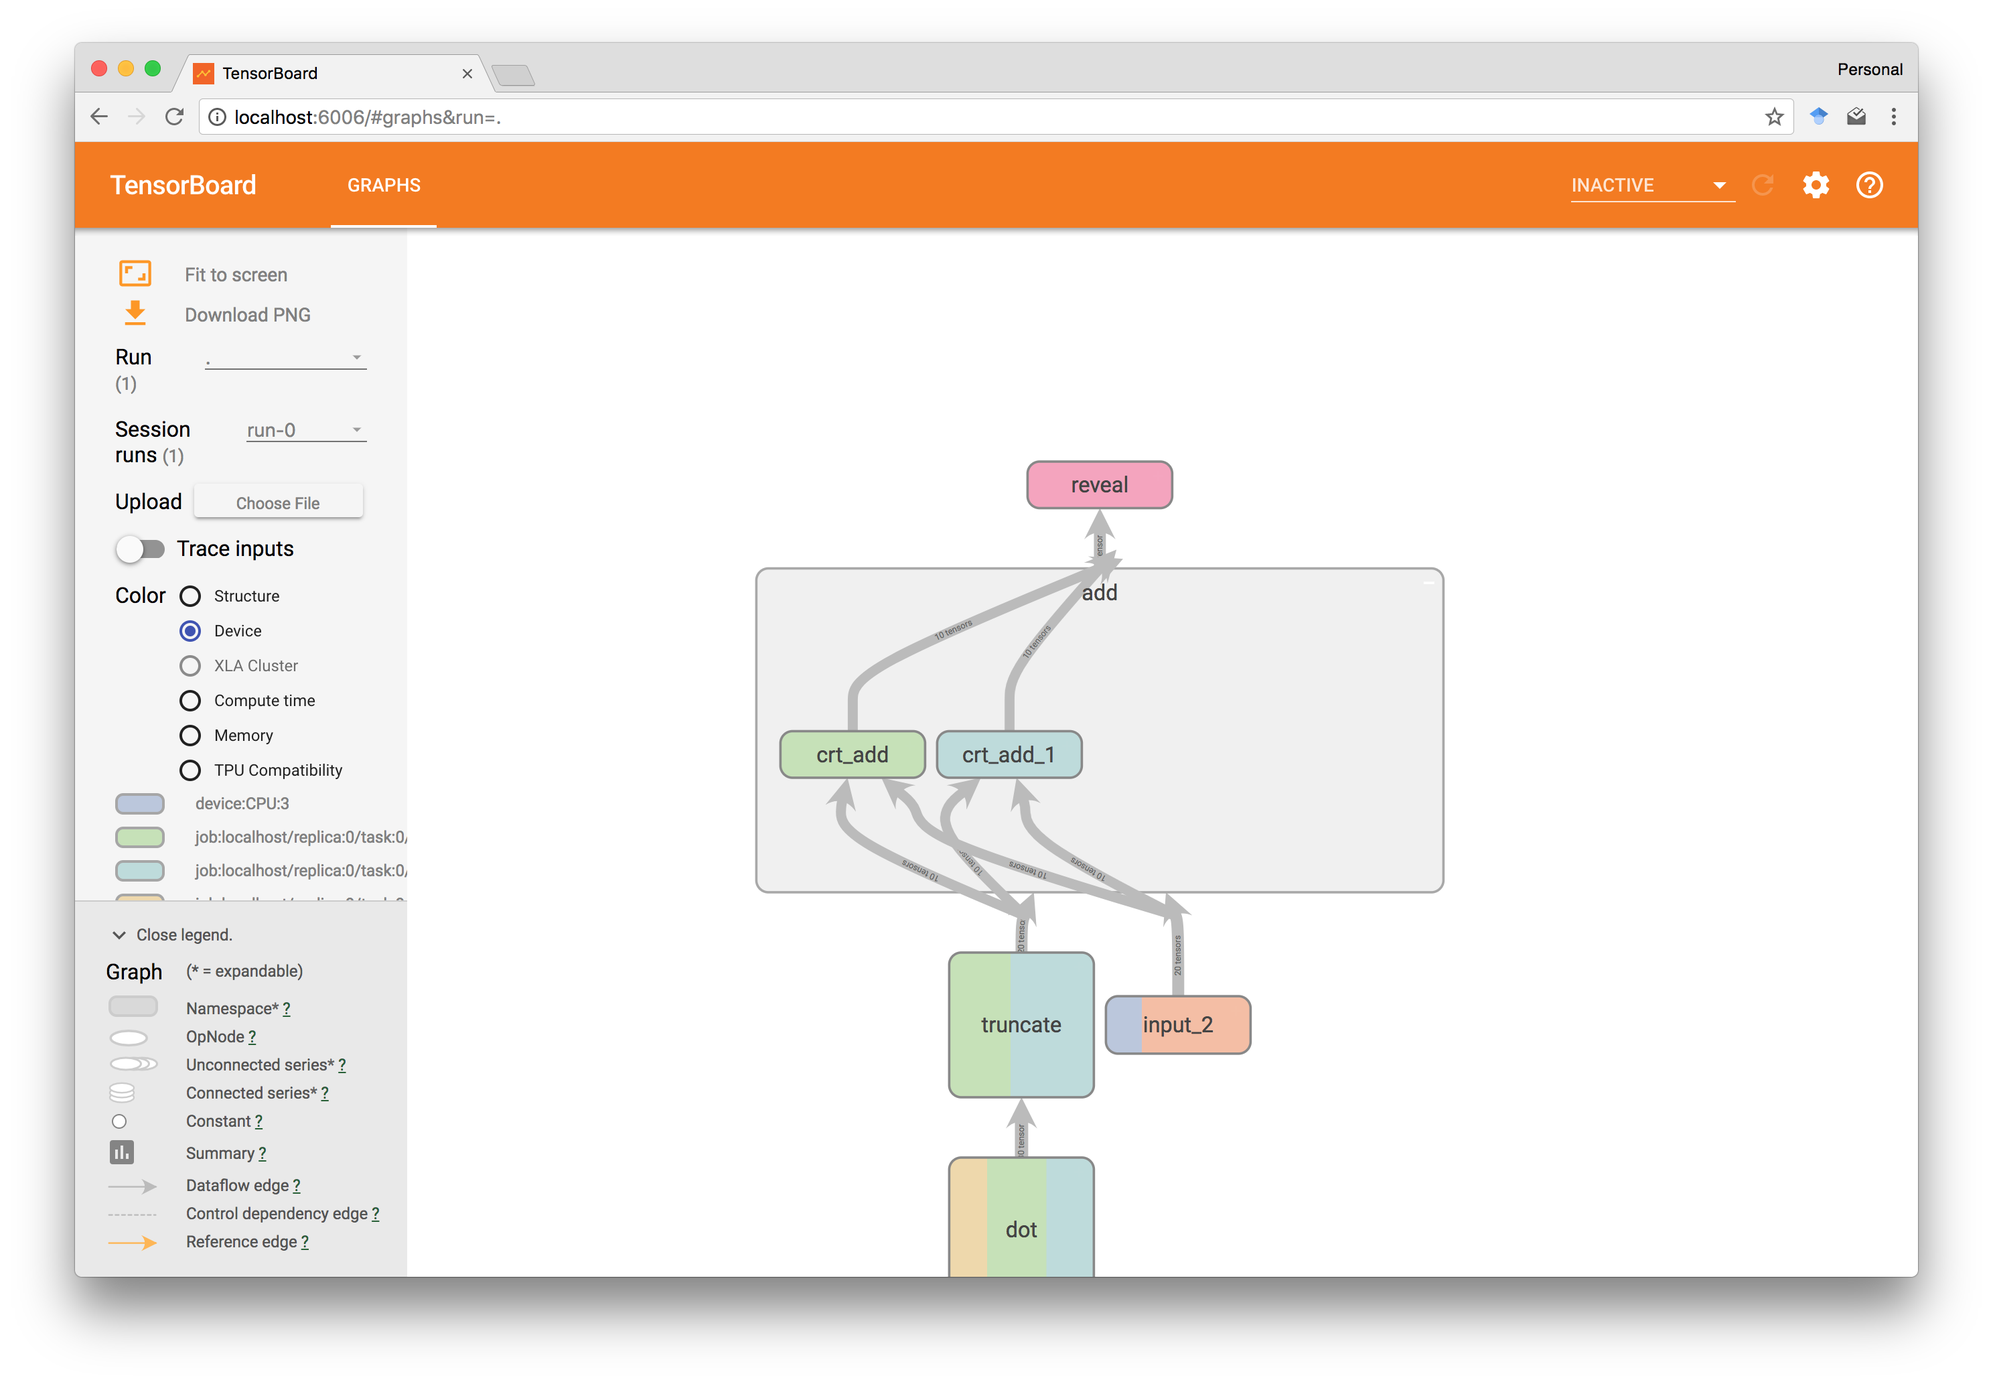
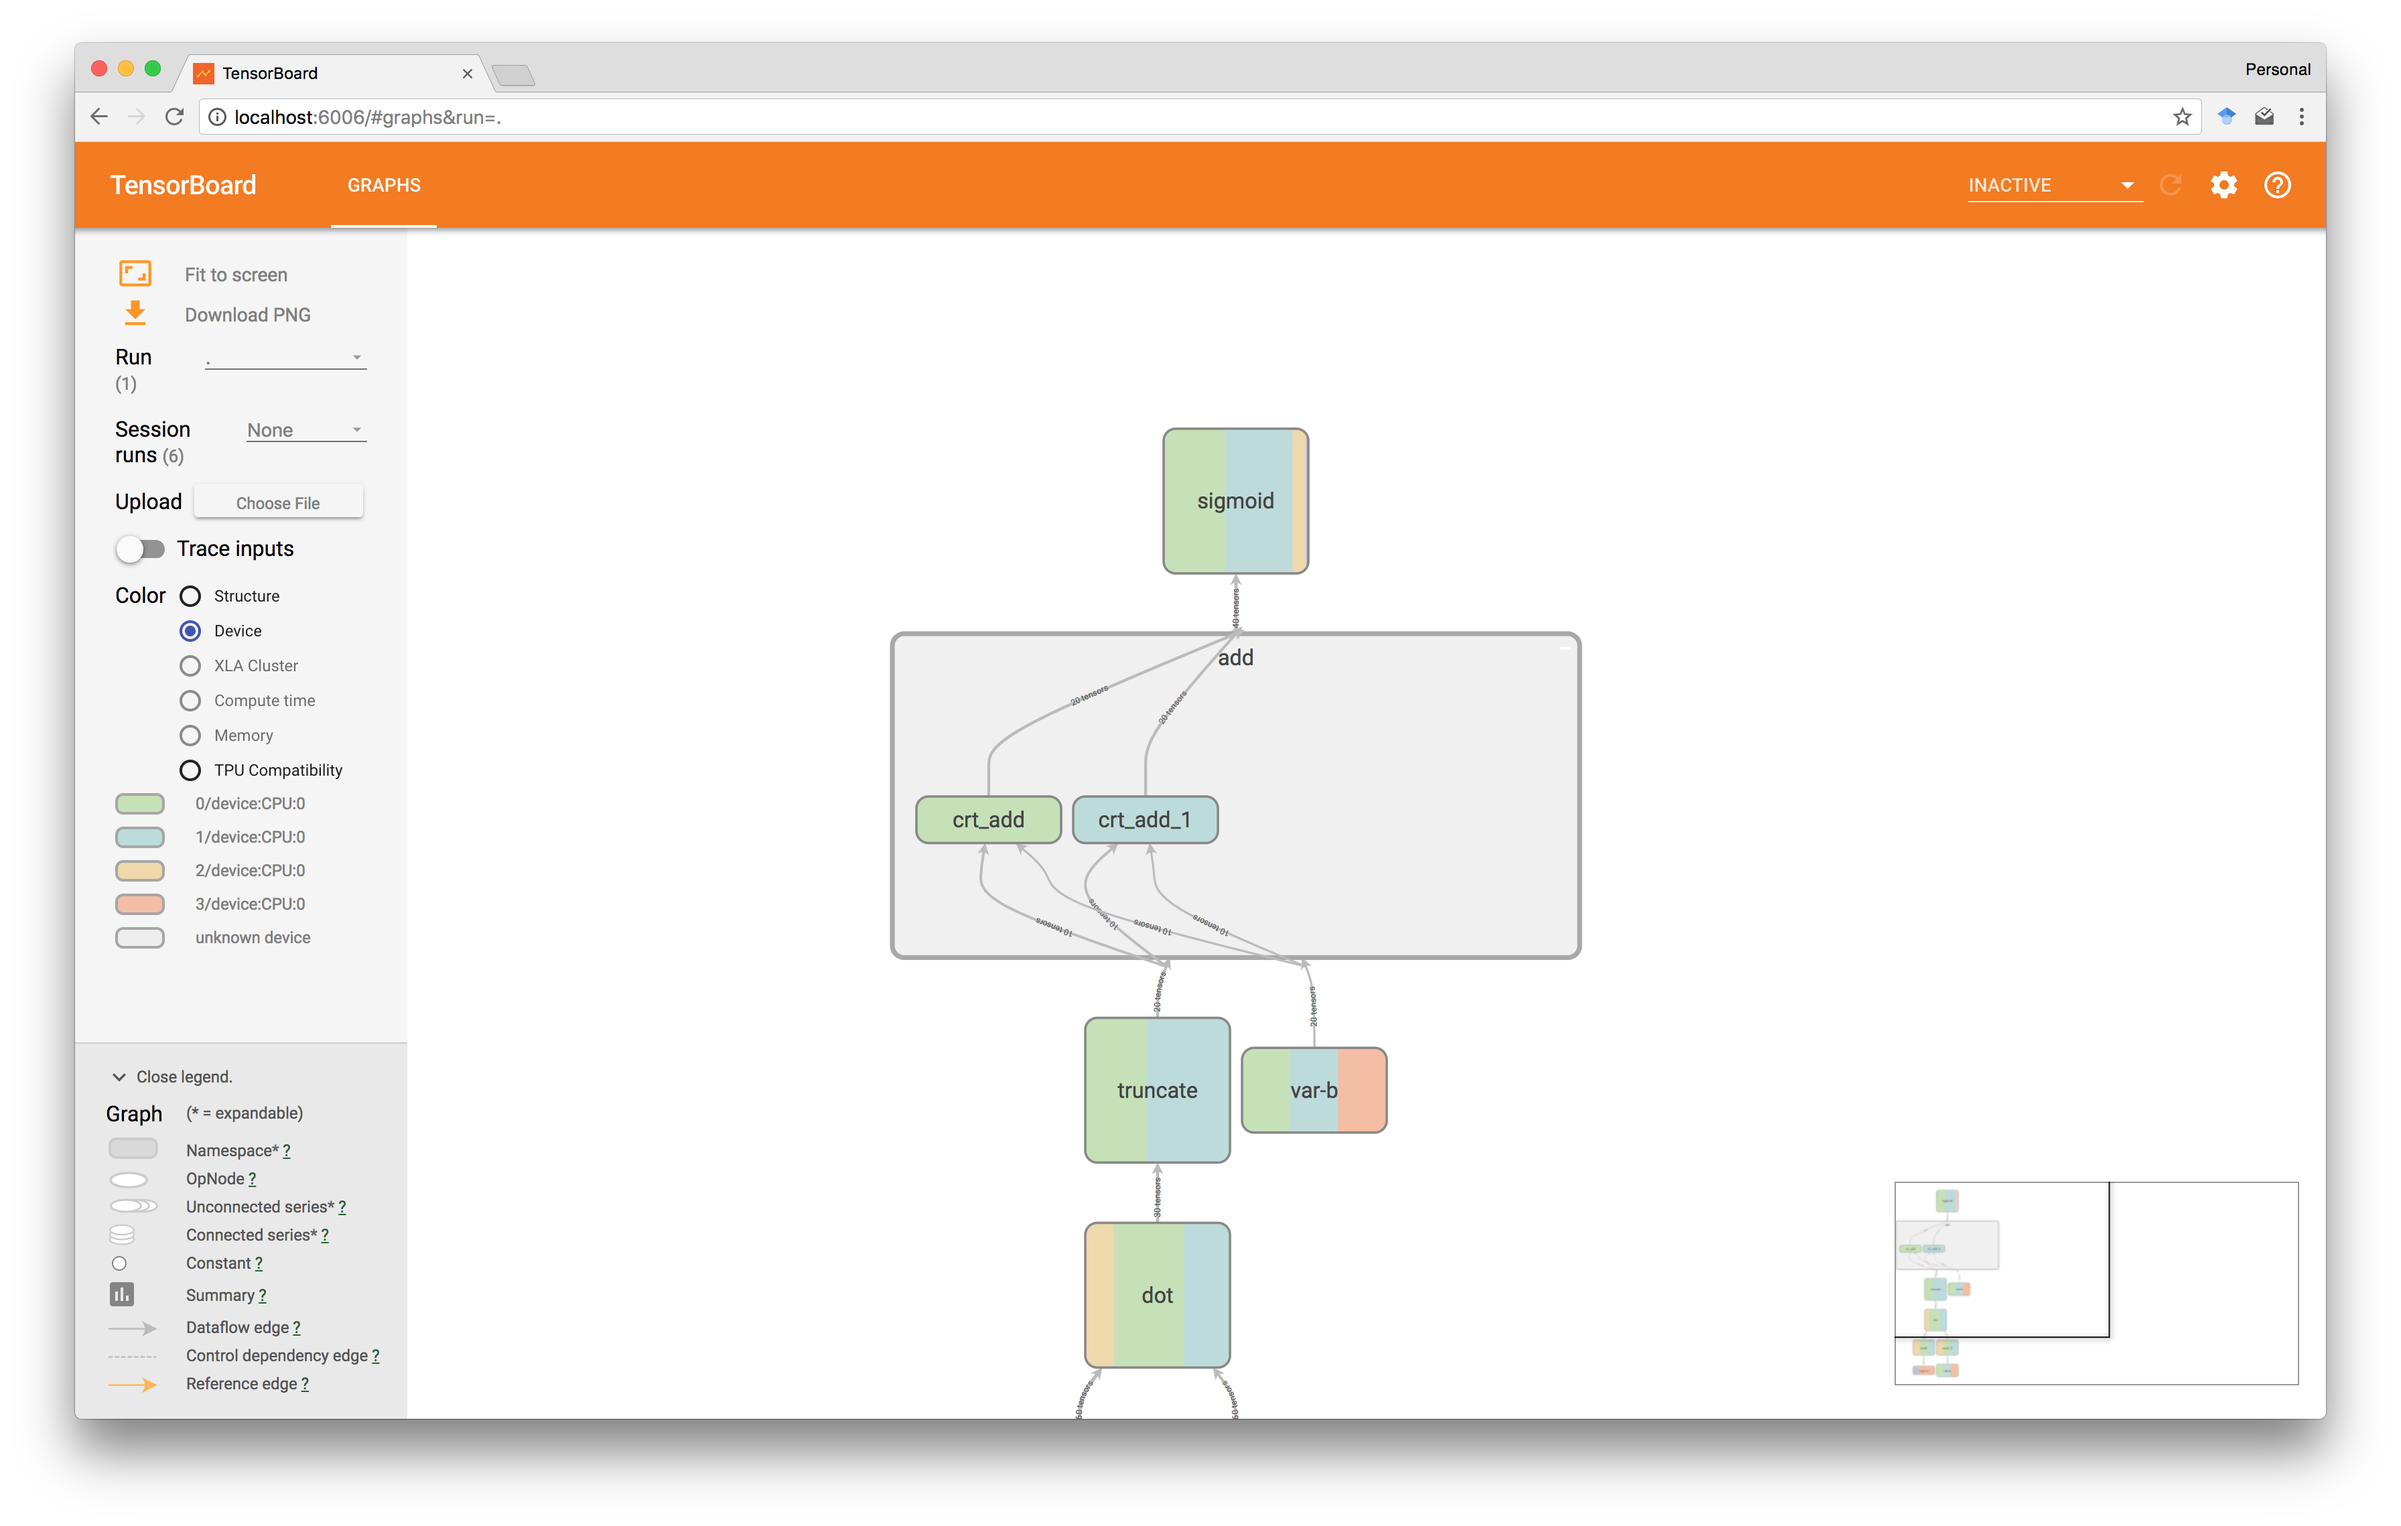
..

Changed region(s): [[0.0312, 0.031, 0.9688, 0.9603]]

diff --git a/_posts/2018-03-01-secure-computation-as-dataflow-programs.md b/_posts/2018-03-01-secure-computation-as-dataflow-programs.md
@@ -33,18 +33,18 @@ Luckily though, modern distributed computation frameworks such as [TensorFlow](h
 
 ## Prerequisites
 
-In this post we are going to assume that the main principles behind both TensorFlow and the SPDZ protocol are already understood -- if not then there are [plenty](https://www.tensorflow.org/tutorials/) [of](https://learningtensorflow.com/) [good](https://github.com/ageron/handson-ml) [resources](https://developers.google.com/machine-learning/crash-course/) for the former (including [whitepapers](https://www.tensorflow.org/about/bib)) and e.g. [previous](/2017/09/03/the-spdz-protocol-part1/) [posts](/2017/09/10/the-spdz-protocol-part2/) for the latter. One important note though is that TensorFlow works by first constructing a static [computation graph](https://www.tensorflow.org/programmers_guide/graphs) then is then later executed in a session. This means that all our secure operations below are concerned with building such a graph, as opposed to doing any actual execution as in earlier posts.
+In this post we are going to assume that the main principles behind both TensorFlow and the SPDZ protocol are already understood -- if not then there are [plenty](https://www.tensorflow.org/tutorials/) [of](https://learningtensorflow.com/) [good](https://github.com/ageron/handson-ml) [resources](https://developers.google.com/machine-learning/crash-course/) for the former (including [whitepapers](https://www.tensorflow.org/about/bib)) and e.g. [previous](/2017/09/03/the-spdz-protocol-part1/) [posts](/2017/09/10/the-spdz-protocol-part2/) for the latter. One important note though is that TensorFlow works by first constructing a static [computation graph](https://www.tensorflow.org/programmers_guide/graphs) that is subsequently executed in a session. This means that all our secure operations below are concerned with building such a graph, as opposed to actual execution as in earlier posts: we are in some sense making a small compiler that translates secure computations expressed in a simple language into TensorFlow programs.
 
 We are also going to focus on applications where tensors and linear algebra play integrate roles, as for instance in various [regression](/2018/03/12/private-logistic-regression/) tasks and [deep learning](/2017/09/19/private-image-analysis-with-mpc/). In particular, in these applications the secure operations needed were tensor addition, subtraction, multiplication, dot products, truncation, and sampling.
 
 As we shall see this fits very nicely with what's already provided by TensorFlow, with one main exception: to get high precision when working with [fixedpoint numbers](/2017/09/03/the-spdz-protocol-part1/#fixedpoint-numbers) in the secure setting we end up encoding into and operating on integers that are larger than what fits in a typically word size, while TensorFlow on the other hand today only supports operations on 32 and 64 bit integers (a constraint that may have something to do with current support on GPUs).
 
-Luckily, since we only need the operations mentioned above, there are efficient ways around this as discussed [elsewhere](/2018/01/29/the-chinese-remainder-theorem/) which allow us to simulate arithmetic on tensors of ~120 bit integers using (a list of) tensors of 32 bit integers. Here, we will simply assume such base operations `base_add`, `base_sub`, `base_mul`, `base_dot`, `base_mod`, and `sample`.
+Luckily though, since we only need the operations mentioned above, there are efficient ways around this as discussed [elsewhere](/2018/01/29/the-chinese-remainder-theorem/) which allow us to simulate arithmetic on tensors of ~120 bit integers using (a list of) tensors of 32 bit integers. Here, we will simply assume such base operations `base_add`, `base_sub`, `base_mul`, `base_dot`, `base_mod`, and `sample`.
 
 
 # Basics
 
-Since a secure operation is often expressed in terms of several TensorFlow operations, as a convinient way of defining the computation graph we will use a few abstract operations such as `add` and `dot` that allow us manage this complexity and focus on the secure computation at hand. Since each private tensor is represented by two shares, each input to these abstract operations are also represented by two (lists of) nodes in the graph. We call each such pair of nodes a private tensor, and introduce a simple class to contain this abstraction; this will also come in handy later when we look at a few optimisations.
+Since a secure operation is often expressed in terms of several TensorFlow operations, as a convinient way of defining the computation graph we will use a few abstract operations such as `add`, `mul`, and `dot` that allow us manage this complexity and focus on the secure computation at hand. Since each private tensor is represented by two shares, each input to these abstract operations are also represented by two (lists of) nodes in the graph. We call each such pair of nodes a private tensor, and introduce a simple class to contain this abstraction; this will also come in handy later when we look at a few optimisations.
 
 ```python
 class PrivateTensor:
@@ -86,7 +86,7 @@ Notice how easy it is to use [`tf.device()`](https://www.tensorflow.org/api_docs
 
 As an example, in the above, if `x0` was previous on, say, the input provider then TensorFlow will insert send and receive instructions that copies it to `SERVER_0` as part of computing `add`. All of this is abstracted away and the framework will attempt to [figure out](https://www.tensorflow.org/about/bib) the best strategy for optimising exactly when to perform sends and receives, including batching to better utilise the network and keeping the compute units busy.
 
-The [`tf.name_scope()`](https://www.tensorflow.org/api_docs/python/tf/name_scope) command on the other hand is simply a logical abstraction that doesn't influence computations but can be used to make the graphs much easier to visualise in [TensorBoard](https://www.tensorflow.org/programmers_guide/summaries_and_tensorboard) by grouping subgraphs as single components. For instance, inspecting the graph we get from `add(dot(x, w), b)` shows the following.
+The [`tf.name_scope()`](https://www.tensorflow.org/api_docs/python/tf/name_scope) command on the other hand is simply a logical abstraction that doesn't influence computations but can be used to make the graphs much easier to visualise in [TensorBoard](https://www.tensorflow.org/programmers_guide/summaries_and_tensorboard) by grouping subgraphs as single components. For instance, inspecting the graph we get from `sigmoid(add(dot(x, w), b))` shows the following.
 
 ![](/assets/tensorspdz/structure.png)
 

diff --git a/_drafts/the-spdz-protocol-part2.md b/_drafts/the-spdz-protocol-part2.md
@@ -4,18 +4,17 @@ title:      "The SPDZ Protocol, Part 2"
 subtitle:   "More Fun with Triples"
 date:       2017-09-10 12:00:00
 author:     "Morten Dahl"
-header-img: "img/post-bg-04.jpg"
+header-img: "assets/spdz/aarhus.jpg"
 ---
 
-<em><strong>TL;DR:</strong> we take a typical CNN deep learning model and go through a series of steps that enable both training and prediction to instead be done on encrypted data.</em> 
-
-https://www1.cs.fau.de/filepool/publications/octavian_securescm/smcint-scn10.pdf
-
-https://www.iacr.org/archive/pkc2007/44500343/44500343.pdf
+<em><strong>TL;DR:</strong> ... </em> 
 
 
-## Principles
+# Triples
 
+## Underlying principle
+
+<em>(we turn our operation into a linear operation between private shares and public information; illustrate with mul; SageMath?)</em>
 
 
 ## Squaring
@@ -23,8 +22,8 @@ https://www.iacr.org/archive/pkc2007/44500343/44500343.pdf
 ```python
 def generate_square_triple():
     a = random.randrange(Q)
-    b = pow(a, 2, Q)
-    return PrivateValue(a), PrivateValue(b)
+    aa = pow(a, 2, Q)
+    return PrivateValue(a), PrivateValue(aa)
 ```
 
 ```python
@@ -136,4 +135,10 @@ Another, perhaps more important case, is if we are only interested in during pre
 
 Additionally, it might also be possible to have triples for more advanced functions such as evaluating both a dense layer and its activation function with a single round of communication. Main question here again seems to be efficiency, this time in terms of triple storage and amount of computation needed for the recombination step.
 
-# Application
+<!--
+
+
+https://www1.cs.fau.de/filepool/publications/octavian_securescm/smcint-scn10.pdf
+
+https://www.iacr.org/archive/pkc2007/44500343/44500343.pdf
+-->

diff --git a/talks.md b/talks.md
@@ -1,7 +1,7 @@
 ---
 layout: page
 title: "Talks"
-description: "Slides and more"
+description: "Slides and more from recent talks"
 header-img: "img/about-bg.jpg"
 twitter:     "mortendahlcs"
 github:      "mortendahl"
@@ -15,7 +15,10 @@ email:       "mortendahlcs@gmail.com"
 <strong>What Privacy Has Meant For Snips</strong> ([slides](https://github.com/mortendahl/talks/raw/master/PSA17-slides.pdf))
 <br/><em>Privacy in Statistical Analysis (PSA), May 2017</em>
 
-<strong>Private Data Aggregation on a Budget</strong> ([slides](https://github.com/mortendahl/talks/raw/master/HEAT17-slides.pdf))
+<strong>Private Data Aggregation on a Budget</strong>
+([slides](https://github.com/mortendahl/talks/raw/master/HEAT17-slides.pdf),
+[paper](https://eprint.iacr.org/2017/643),
+[code](https://github.com/mortendahl/sda))
 <br/><em>Homomorphic Encryption
 Applications and Technology (HEAT), November 2017</em>
 <br/><em>Theory and Practice of Multi-Party Computation (TPMPC), April 2017</em>
